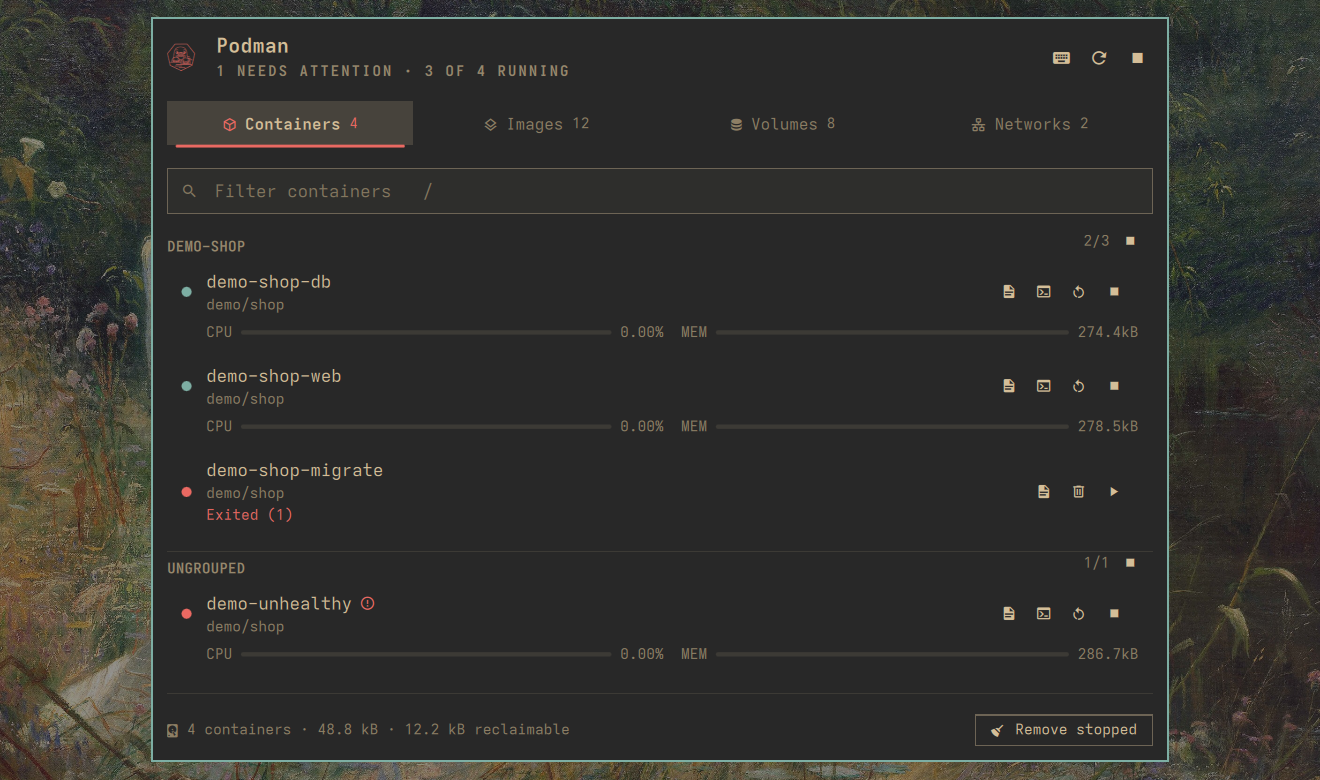
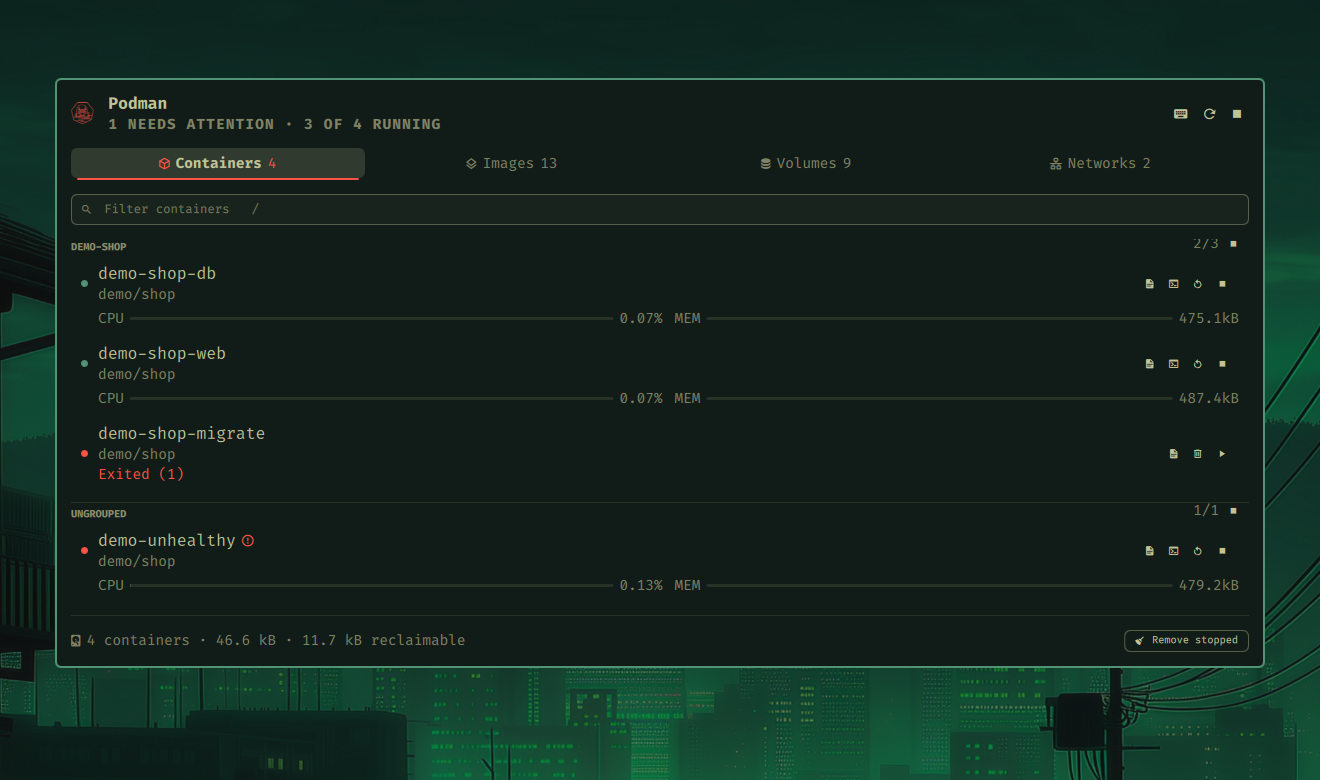
docs: retake thirteen stills in the theme both machines run (#38)
The shipped captures were taken 2026-09-22 against a theme neither machine
now runs: they mean around #2F302D, a capture today means #13251E, and both
razer and p620 are on osaka-jade. #22, #30 and #17 had also moved the menu
underneath them.

Two images change size because the plugin did. shortcuts.png 565 -> 730:
#17 grew the card to fit the sheet and the old crop cut off the line telling
the reader how to close it. confirm-remove.png 306 -> 400: #30 sized the
buttons to their labels and the old crop cut them off.

Inspecting each image caught two things a size check would not: popup-images
and popup-volumes shipped the owner real images and anonymous volumes until
the demo filter AGENTS.md requires was applied, and two captures had another
session notification over the card.

omarchy-menu-row.png is not retaken; see plan/ for why.

docs/img falls from 5,761,828 to 5,324,205 bytes, 69% to 63% of budget.

Claude-Session: https://claude.ai/code/session_012LKMYhtFpQLbMKSDa2t9Lh

diff --git a/plan/2026-09-24-38-retake-stills.md b/plan/2026-09-24-38-retake-stills.md
@@ -82,6 +82,20 @@ absent during the run.
    retaken, not kept.
    → verify by viewing all fourteen.
 
+7b. **Deviation: `omarchy-menu-row.png` was not retaken.** Three attempts.
+   It shows Omarchy's own launcher searched for "podman" rather than this
+   plugin's UI, and the menu closed before the capture each time — once
+   because DP-1's workspace had been switched back underneath it by another
+   session. The original is restored from git and the image is left stale.
+   It is the least plugin-specific of the fourteen, and a wrong capture is
+   worse than an old one. Worth doing in a sitting where the desktop is not
+   shared.
+
+   Note for whoever takes it: p620 does not have Podman Desktop or BoxBuddy
+   installed, so the search result list will be shorter than the shipped
+   image's. That is arguably clearer, but it is a change in what the figure
+   shows.
+
 8. **Restore.** `--teardown`, return each monitor to its recorded workspace,
    diff the podman snapshot.
    → verify by four identical diffs.
